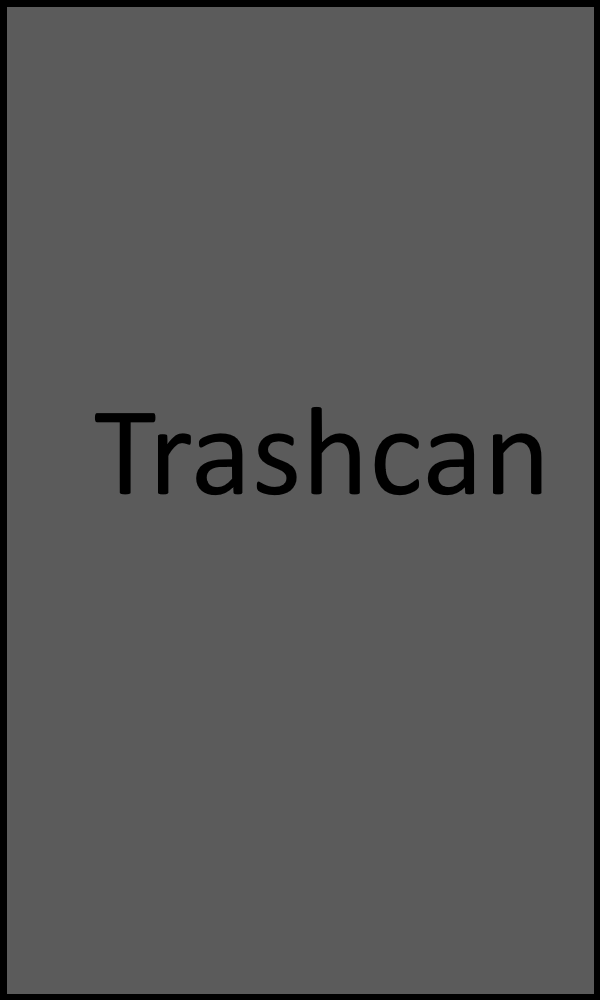
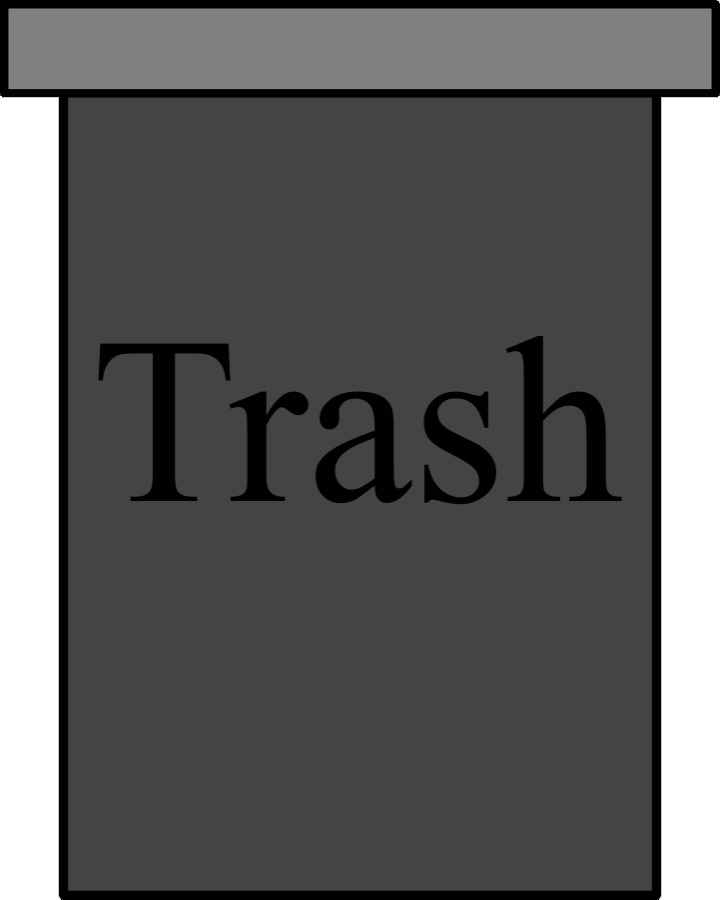
Fixed image scaling with resized images
Also removed svg files from project
Also moved scale code into one file

diff --git a/ycpcsp/src/main/resources/static/simulation/ExperimentObjects/Scale.js b/ycpcsp/src/main/resources/static/simulation/ExperimentObjects/Scale.js
@@ -1,3 +1,79 @@
+/**
+A scale used to weigh containers
+*/
+class Scale extends Equipment{
+
+    /**
+     Create a new, empty, SCale object with the given position, mass, capacity, residue, id, and sprite
+     position: A list [x, y] of the upper left hand corner coordinates of the scale's location in the Experiment
+     size: A list [width, height] of the size of the Equipment in pixels
+     mass: A floating point value, the mass, in grams, of this Container
+     capacity: A floating point value, the maximum amount of Weight  which this Scale can hold
+     residue: A floating point value in range [0-1], the percentage of this Container's capacity
+     which will be left behind when the object that this container holds are removed from it.
+     sprite: A P5 image file used to display this piece of Container
+     */
+    constructor(ObjectToBeWeighed = null){
+        super([1,1], [120, 60], 100, SPRITE_SCALE);
+        this.DisplayedWeight = 0.0;
+        this.ObjectToBeWeighed = ObjectToBeWeighed;
+        this.ZeroOut = 0.0;
+        // The weight of  contained by this Container
+    }
+
+    /**
+    Set the current position of this Scale, also updates the position of the held object
+    pos: The new position, a list [x, y] of coordinates
+    */
+    setPosition(pos){
+        super.setPosition(pos);
+        // Update the position of the equipment
+        let obj = this.ObjectToBeWeighed;
+        if(obj !== null){
+            let scaleControl = new ScaleController2D(this);
+            let eq = obj.equipment;
+            eq.setPosition([scaleControl.getCenter()[0] - eq.size[0] * 0.5, pos[1] - eq.size[1]]);
+        }
+    }
+
+    setDisplayedWeight(displayedWeight){
+        this.DisplayedWeight = displayedWeight;
+    }
+
+    setObjectToBeWeighed(NewObjectToBeWeighed){
+        this.ObjectToBeWeighed = NewObjectToBeWeighed;
+        // Update the position of this Scale, and the position of the object to be weighed
+        this.setPosition(this.position);
+    }
+
+    getID() {
+        return ID_EQUIP_SCALE;
+    }
+
+    setZeroOut(value){
+        this.ZeroOut = value;
+    }
+
+    getZeroOut(){
+        return this.ZeroOut;
+    }
+
+    /**
+     Set given weigth based on the weight of Equipment
+     */
+
+    getWeightObj(){
+            this.DisplayedWeight = this.ObjectToBeWeighed.getTotalMass() - this.zeroOut;
+    }
+
+
+    // TODO Zero out
+    getHeldWeight(){
+        return this.DisplayedWeight;
+    }
+}
+
+
 // Constants for identifying which functions have which ids
 let ID_FUNC_To_Take_Weight = 1;
 
@@ -105,7 +181,7 @@ class ScaleController2D extends EquipmentController2D{
         graphics.noStroke();
         graphics.fill(0);
         graphics.textSize(15);
-        graphics.text("" + this.equipment.DisplayedWeight, this.x() + this.width() * 0.2, this.y() + this.height() * 0.7);
+        graphics.text("" + this.equipment.DisplayedWeight, this.x() + this.width() * 0.3, this.y() + this.height() * 0.7);
     }
 
 }

diff --git a/ycpcsp/src/main/resources/static/simulation/ExperimentObjects/Containers/GraduatedCylinder.js b/ycpcsp/src/main/resources/static/simulation/ExperimentObjects/Containers/GraduatedCylinder.js
@@ -13,10 +13,10 @@ class GraduatedCylinder extends Container{
         var newAttributes = null;
         switch(graduatedID){
             // All Beaker sizes
-            case ID_EQUIP_GRADUATED_25mL: newAttributes = [[60, 60], 15.0, 25.0]; break;
-            case ID_EQUIP_GRADUATED_50mL: newAttributes = [[100, 100], 20.0, 50.0]; break;
-            case ID_EQUIP_GRADUATED_100mL: newAttributes = [[130, 130], 30.0, 100.0]; break;
-            case ID_EQUIP_GRADUATED_1000mL: newAttributes = [[200, 200], 50.0, 1000.0]; break;
+            case ID_EQUIP_GRADUATED_25mL: newAttributes = [[23, 80], 15.0, 25.0]; break;
+            case ID_EQUIP_GRADUATED_50mL: newAttributes = [[32.4, 112], 20.0, 50.0]; break;
+            case ID_EQUIP_GRADUATED_100mL: newAttributes = [[39.1, 136], 30.0, 100.0]; break;
+            case ID_EQUIP_GRADUATED_1000mL: newAttributes = [[57.5, 200], 50.0, 1000.0]; break;
             default: break;
         }
         if(newAttributes !== null){
@@ -71,12 +71,6 @@ class CylinderController2D extends ContainerController2D{
 
         // Draw the base Cylinder sprite
         super.draw(graphics);
-
-        // Draw the text
-        graphics.fill(color(0, 0, 0));
-        graphics.noStroke();
-        graphics.textSize(15);
-        graphics.text("ID: " + eq.instanceID, this.x() + this.width() * 0.4, this.y() + this.height() / 2)
     }
 
 }

diff --git a/ycpcsp/src/main/resources/static/simulation/ExperimentObjects/Containers/ErlenmeyerFlask.js b/ycpcsp/src/main/resources/static/simulation/ExperimentObjects/Containers/ErlenmeyerFlask.js
@@ -13,10 +13,10 @@ class ErlenmeyerFlask extends Container{
         var newAttributes = null;
         switch(erlenmeyerID){
             // All Beaker sizes
-            case ID_EQUIP_FLASK_25mL: newAttributes = [[60, 60], 15.0, 25.0]; break;
-            case ID_EQUIP_FLASK_50mL: newAttributes = [[100, 100], 20.0, 50.0]; break;
-            case ID_EQUIP_FLASK_100mL: newAttributes = [[130, 130], 30.0, 100.0]; break;
-            case ID_EQUIP_FLASK_1000mL: newAttributes = [[200, 200], 50.0, 1000.0]; break;
+            case ID_EQUIP_FLASK_25mL: newAttributes = [[50, 80], 15.0, 25.0]; break;
+            case ID_EQUIP_FLASK_50mL: newAttributes = [[62.5, 100], 20.0, 50.0]; break;
+            case ID_EQUIP_FLASK_100mL: newAttributes = [[84, 136], 30.0, 100.0]; break;
+            case ID_EQUIP_FLASK_1000mL: newAttributes = [[125, 200], 50.0, 1000.0]; break;
             default: break;
         }
         if(newAttributes !== null){
@@ -71,12 +71,6 @@ class ErlenmeyerFlaskController2D extends ContainerController2D{
 
         // Draw the base Flask sprite
         super.draw(graphics);
-
-        // Draw the text
-        graphics.fill(color(0, 0, 0));
-        graphics.noStroke();
-        graphics.textSize(15);
-        graphics.text("ID: " + eq.instanceID, this.x() + this.width() * 0.4, this.y() + this.height() / 2)
     }
 
 }

diff --git a/ycpcsp/src/main/resources/static/simulator.html b/ycpcsp/src/main/resources/static/simulator.html
@@ -31,6 +31,7 @@
     <script src="simulation/ExperimentObjects/ExperimentObject.js"></script>
     <script src="simulation/ExperimentObjects/Equipment.js"></script>
     <script src="simulation/ExperimentObjects/Chemical.js"></script>
+    <script src="simulation/ExperimentObjects/Scale.js"></script>
 
     <script src="simulation/ExperimentObjects/Containers/Container.js"></script>
     <script src="simulation/ExperimentObjects/Containers/Beaker.js"></script>
@@ -40,8 +41,6 @@
     <script src="simulation/ExperimentObjects/Disposers/Disposer.js"></script>
     <script src="simulation/ExperimentObjects/Disposers/Trashcan.js"></script>
 
-    <script src="simulation/ExperimentObjects/Scale/Scale.js"></script>
-    <script src="simulation/ExperimentObjects/Scale/ScaleController2D.js"></script>
 
     <script src="simulation/DataLoader.js"></script>
 

diff --git a/ycpcsp/src/main/resources/static/simulation/Experiment.js b/ycpcsp/src/main/resources/static/simulation/Experiment.js
@@ -1015,7 +1015,28 @@ class DisplayBox{
             g.rect(r[0], r[1], r[2], r[3]);
         }
 
-        g.image(this.getImage(), r[0] + IMG_OFF, r[1] + IMG_OFF, IMG_SIZE, IMG_SIZE);
+        // Determine the height and width to draw the image for the box
+        let img = this.getImage();
+        let w = img.width;
+        let h = img.height;
+        var dw;
+        var dh;
+        if(w > h){
+            dw = IMG_SIZE;
+            dh = (dw / w) * h;
+        }
+        else{
+            dh = IMG_SIZE;
+            dw = (dh / h) * w;
+        }
+
+        let midX = r[0] + IMG_OFF + IMG_SIZE * 0.5;
+        let midY = r[1] + IMG_OFF + IMG_SIZE * 0.5;
+
+        g.push();
+        g.imageMode(CENTER);
+        g.image(img, midX, midY, dw, dh);
+        g.pop();
     }
 
     /**

diff --git a/ycpcsp/src/main/resources/static/simulation/ExperimentObjects/Containers/Beaker.js b/ycpcsp/src/main/resources/static/simulation/ExperimentObjects/Containers/Beaker.js
@@ -71,12 +71,6 @@ class BeakerController2D extends ContainerController2D{
 
         // Draw the base Beaker sprite
         super.draw(graphics);
-
-        // Draw the text
-        graphics.fill(color(0, 0, 0));
-        graphics.noStroke();
-        graphics.textSize(15);
-        graphics.text("ID: " + eq.instanceID, this.x() + this.width() * 0.4, this.y() + this.height() / 2)
     }
 
 }

diff --git a/ycpcsp/src/main/resources/static/simulation/ExperimentObjects/Disposers/Trashcan.js b/ycpcsp/src/main/resources/static/simulation/ExperimentObjects/Disposers/Trashcan.js
@@ -7,7 +7,7 @@ class Trashcan extends Disposer{
     Create a new Trashcan, used for disposing of Chemicals
     */
     constructor(){
-        super([0, 0], [75, 125], 100, SPRITE_TRASH_CAN);
+        super([0, 0], [72, 90], 100, SPRITE_TRASH_CAN);
     }
 
     getID(){
